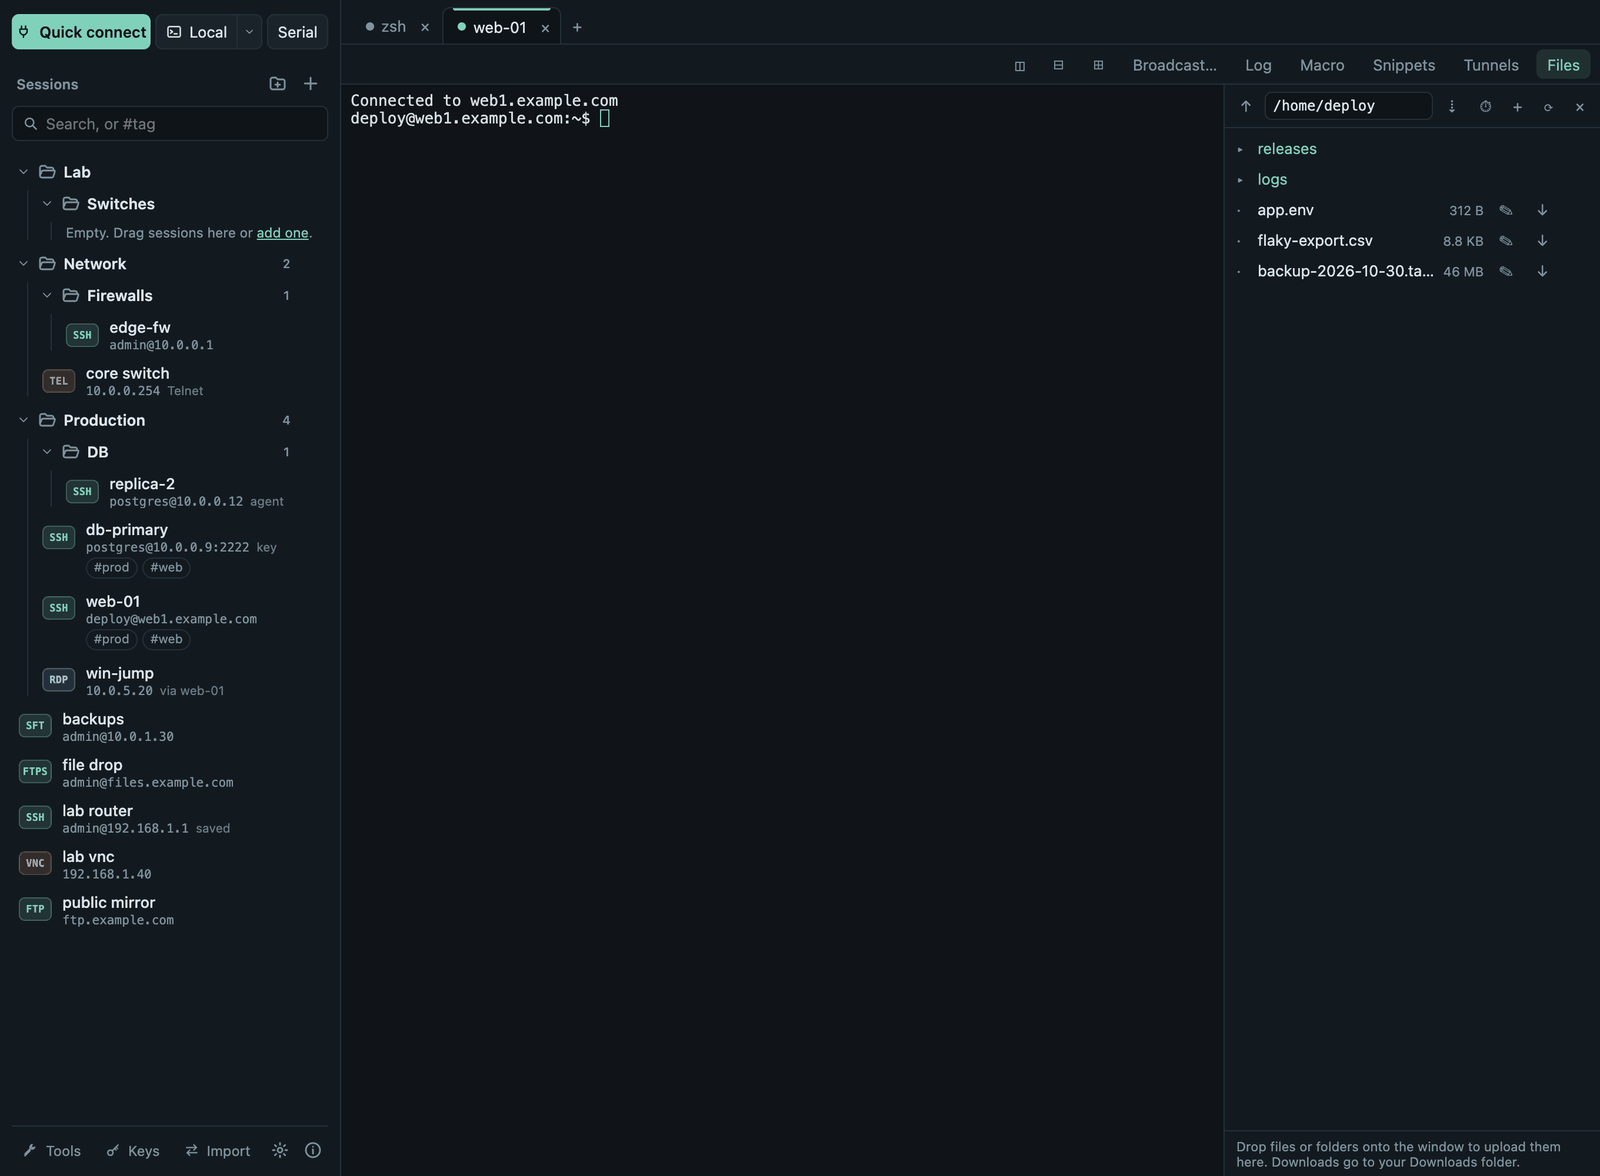
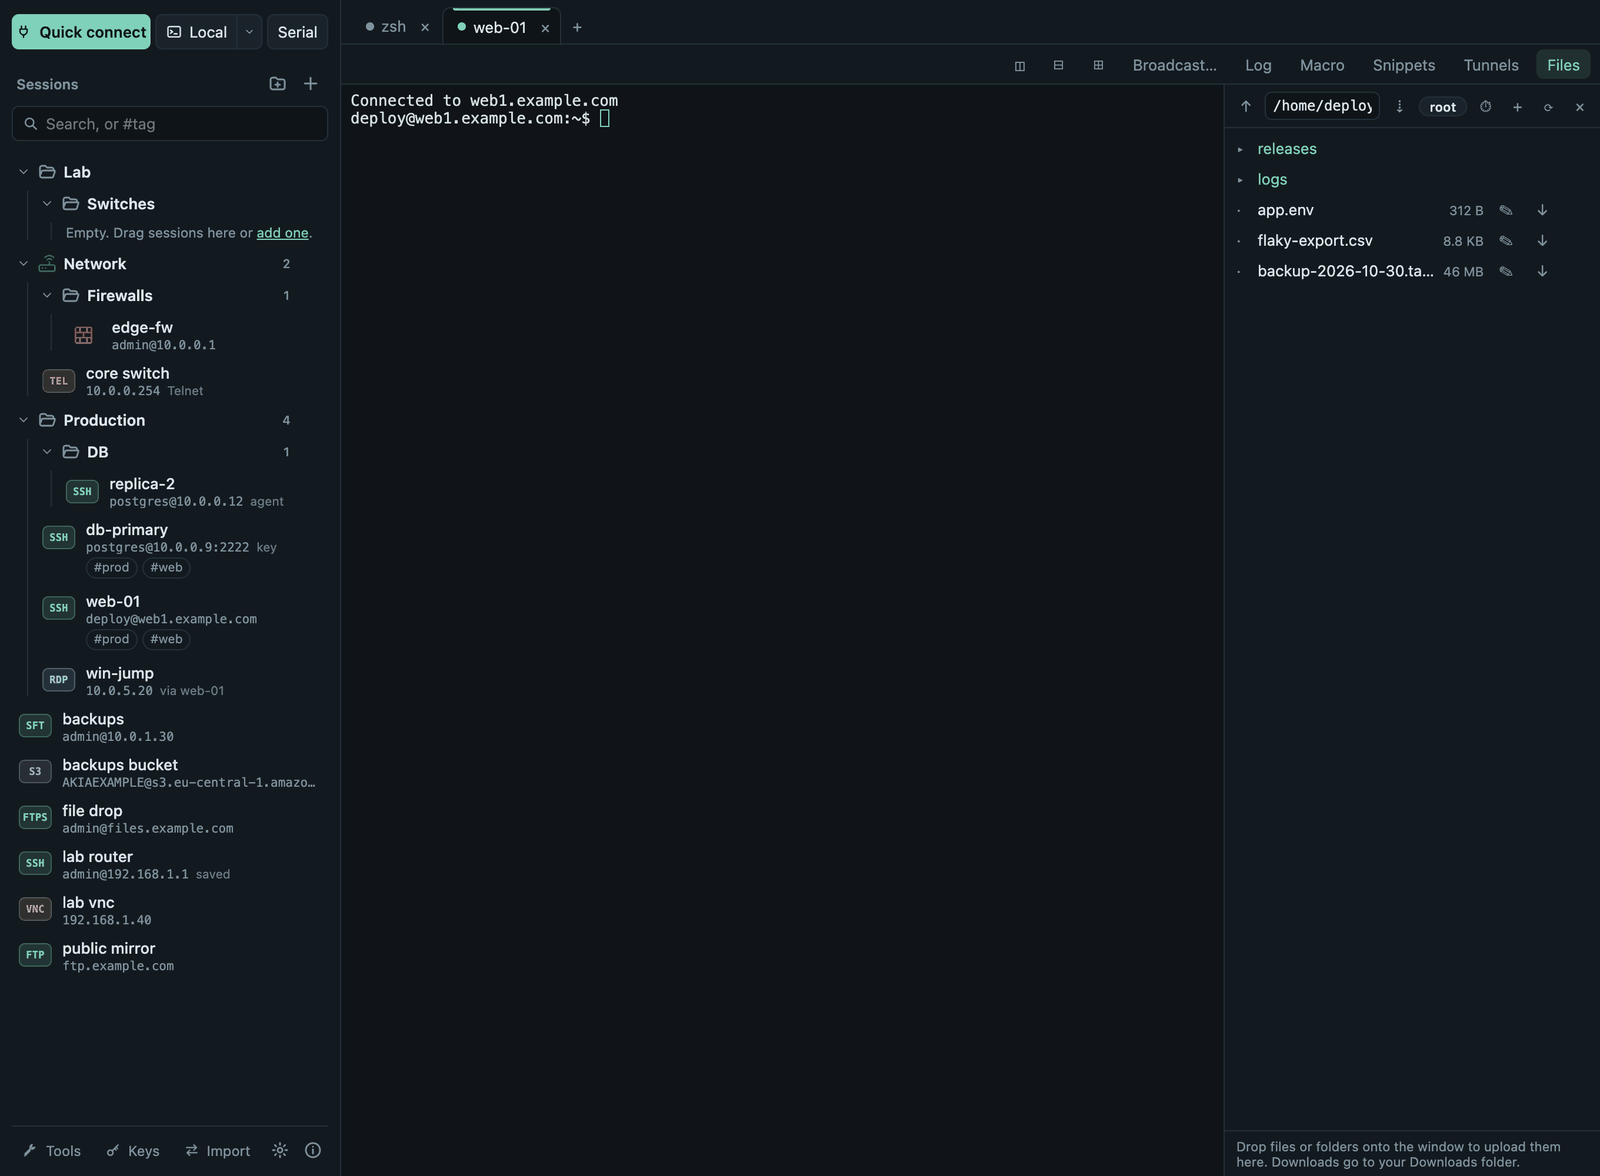
Docs: README, home page and guide cover the 0.5.9 and 0.5.10 features
Folder broadcast, connect by typing, icons, shared session files,
browsing as root, S3, LAN scan, bandwidth test, file servers and the
Windows X server start are now in the README, the landing page, the
guide index and the MobaXterm mapping. Screenshots regenerated; the
screenshot script dismisses the mock's update notice.

Changed region(s): [[0.0, 0.6429, 0.1875, 0.8265], [0.0312, 0.2755, 0.125, 0.3061]]

diff --git a/website/overrides/home.html b/website/overrides/home.html
@@ -5,21 +5,21 @@
 <meta name="viewport" content="width=device-width, initial-scale=1.0">
 <meta name="color-scheme" content="dark">
 <title>Termalith — free, open-source SSH, SFTP, RDP and VNC client for macOS, Windows and Linux</title>
-<meta name="description" content="Termalith is a free, open-source remote administration app for macOS, Windows and Linux: SSH and Mosh terminals, SFTP/FTP/FTPS, RDP and VNC, tunnels, serial and Telnet consoles and network tools in one window. No account, no telemetry.">
+<meta name="description" content="Termalith is a free, open-source remote administration app for macOS, Windows and Linux: SSH and Mosh terminals, SFTP/FTP/FTPS and S3, RDP and VNC, tunnels, serial and Telnet consoles and network tools in one window. No account, no telemetry.">
 <meta property="og:type" content="website">
 <meta property="og:site_name" content="Termalith">
 <meta property="og:title" content="Termalith — one workspace, every connection">
-<meta property="og:description" content="Termalith is a free, open-source remote administration app for macOS, Windows and Linux: SSH and Mosh terminals, SFTP/FTP/FTPS, RDP and VNC, tunnels, serial and Telnet consoles and network tools in one window. No account, no telemetry.">
+<meta property="og:description" content="Termalith is a free, open-source remote administration app for macOS, Windows and Linux: SSH and Mosh terminals, SFTP/FTP/FTPS and S3, RDP and VNC, tunnels, serial and Telnet consoles and network tools in one window. No account, no telemetry.">
 <meta property="og:url" content="https://mehaskari.github.io/Termalith/">
 <meta property="og:image" content="https://mehaskari.github.io/Termalith/assets/og.png">
 <meta property="og:image:width" content="1200">
 <meta property="og:image:height" content="630">
 <meta name="twitter:card" content="summary_large_image">
 <meta name="twitter:title" content="Termalith — one workspace, every connection">
-<meta name="twitter:description" content="Termalith is a free, open-source remote administration app for macOS, Windows and Linux: SSH and Mosh terminals, SFTP/FTP/FTPS, RDP and VNC, tunnels, serial and Telnet consoles and network tools in one window. No account, no telemetry.">
+<meta name="twitter:description" content="Termalith is a free, open-source remote administration app for macOS, Windows and Linux: SSH and Mosh terminals, SFTP/FTP/FTPS and S3, RDP and VNC, tunnels, serial and Telnet consoles and network tools in one window. No account, no telemetry.">
 <meta name="twitter:image" content="https://mehaskari.github.io/Termalith/assets/og.png">
 <script type="application/ld+json">
-{"@context":"https://schema.org","@type":"SoftwareApplication","name":"Termalith","applicationCategory":"DeveloperApplication","applicationSubCategory":"Remote administration","operatingSystem":"macOS 11+, Windows 10/11, Linux","softwareVersion":"0.5.10","license":"https://opensource.org/licenses/MIT","isAccessibleForFree":true,"offers":{"@type":"Offer","price":"0","priceCurrency":"USD"},"url":"https://mehaskari.github.io/Termalith/","downloadUrl":"https://github.com/mehaskari/Termalith/releases/latest","codeRepository":"https://github.com/mehaskari/Termalith","description":"Termalith is a free, open-source remote administration app for macOS, Windows and Linux: SSH and Mosh terminals, SFTP/FTP/FTPS, RDP and VNC, tunnels, serial and Telnet consoles and network tools in one window. No account, no telemetry."}
+{"@context":"https://schema.org","@type":"SoftwareApplication","name":"Termalith","applicationCategory":"DeveloperApplication","applicationSubCategory":"Remote administration","operatingSystem":"macOS 11+, Windows 10/11, Linux","softwareVersion":"0.5.10","license":"https://opensource.org/licenses/MIT","isAccessibleForFree":true,"offers":{"@type":"Offer","price":"0","priceCurrency":"USD"},"url":"https://mehaskari.github.io/Termalith/","downloadUrl":"https://github.com/mehaskari/Termalith/releases/latest","codeRepository":"https://github.com/mehaskari/Termalith","description":"Termalith is a free, open-source remote administration app for macOS, Windows and Linux: SSH and Mosh terminals, SFTP/FTP/FTPS and S3, RDP and VNC, tunnels, serial and Telnet consoles and network tools in one window. No account, no telemetry."}
 </script>
 <script type="application/ld+json">
 {"@context":"https://schema.org","@type":"FAQPage","mainEntity":[
@@ -563,10 +563,11 @@
           <h3>Work in many places at once</h3>
           <ul>
             <li>Local shells, tabs, up to 2×2 split panes</li>
-            <li>Broadcast typing with a loud banner</li>
+            <li>Type into a whole folder of servers at once, side by side</li>
             <li>Snippets with <code>&#123;&#123;variables&#125;&#125;</code>, macros</li>
             <li>Session logs, keyword colors, per-session look</li>
-            <li>Command palette <code>⌘K</code></li>
+            <li>Command palette <code>⌘K</code>: type <code>ssh me@host</code> to connect</li>
+            <li>Icons for sessions and folders, shared team session files</li>
           </ul>
         </div>
         <div class="group">
@@ -577,7 +578,7 @@
             <li>Strict host keys, keychain secrets</li>
             <li>Jump hosts, SOCKS/HTTP proxy</li>
             <li>Tunnels <code>-L</code> <code>-R</code> <code>-D</code>, Mosh</li>
-            <li>X11 &amp; agent forwarding, server monitor</li>
+            <li>X11 (starts VcXsrv on Windows) &amp; agent forwarding, server monitor</li>
           </ul>
         </div>
         <div class="group">
@@ -585,7 +586,8 @@
           <h3>Move and edit files</h3>
           <ul>
             <li>SFTP panel or file-browser tab</li>
-            <li>FTP and FTPS (pinned certificate)</li>
+            <li>FTP, FTPS (pinned certificate) and S3 buckets</li>
+            <li>Browse as root through sudo</li>
             <li>Drag and drop, queue with retry</li>
             <li>Files follow the terminal's folder</li>
             <li>Edit remote files with conflict check</li>
@@ -598,8 +600,9 @@
           <ul>
             <li>RDP and VNC in a tab, or your own client</li>
             <li>Serial consoles and Telnet</li>
-            <li>Ping, traceroute, port scan, DNS</li>
-            <li>Subnet calculator, Wake-on-LAN</li>
+            <li>Ping, traceroute, port scan, LAN scan, DNS</li>
+            <li>Bandwidth test (iperf3), subnet calculator, Wake-on-LAN</li>
+            <li>Built-in TFTP, HTTP and FTP file servers</li>
             <li>Import from <code>~/.ssh/config</code> &amp; MobaXterm</li>
           </ul>
         </div>
@@ -735,7 +738,7 @@ corepack pnpm dev</div>
       <div class="why">
         <div class="why-card"><h3>Is it really free?</h3><p>Yes: MIT licensed, free for personal and commercial use, no paid tier.</p></div>
         <div class="why-card"><h3>Which systems?</h3><p>macOS 11+ (Apple Silicon, Intel), Windows 10/11 (x64, ARM64), Linux (x64, ARM64; AppImage and deb).</p></div>
-        <div class="why-card"><h3>Is it a MobaXterm alternative?</h3><p>For daily SSH, files, RDP/VNC and tunnels, yes, on all three systems; it imports MobaXterm sessions. A built-in X server on Windows is not there yet.</p></div>
+        <div class="why-card"><h3>Is it a MobaXterm alternative?</h3><p>For daily SSH, files, RDP/VNC, tunnels, broadcast typing and file servers, yes, on all three systems; it imports MobaXterm sessions. On Windows it starts an installed VcXsrv or Xming for X11; it does not ship its own X server or Unix tools yet.</p></div>
         <div class="why-card"><h3>Where do passwords go?</h3><p>Into the system keychain, only after a login worked, optionally sealed with a master password. Never into exports or logs.</p></div>
         <div class="why-card"><h3>Why the security warning?</h3><p>The installers are not code-signed with a paid certificate yet. Check the download against <code>SHA256SUMS.txt</code>, or build from source.</p></div>
         <div class="why-card"><h3>How can I help?</h3><p>Star the project, report problems and ideas in <a href="https://github.com/mehaskari/Termalith/issues" target="_blank" rel="noopener">Issues</a>, or send a pull request.</p></div>

diff --git a/README.md b/README.md
@@ -72,21 +72,24 @@ Step by step with screenshots:
 
 **Terminals** — local shells (zsh, bash, fish, PowerShell, cmd, Git Bash,
 WSL) in tabs and up to 2×2 split panes; broadcast typing to several
-terminals; snippets with `{{variables}}`; macros; session logs; find;
-keyword colors; color schemes and per-session fonts and colors; command
-palette.
+terminals, or to a whole folder of sessions opened side by side; snippets
+with `{{variables}}`; macros; session logs; find; keyword colors; color
+schemes and per-session fonts and colors; command palette (type
+`ssh me@host` to connect without saving).
 [Guide](https://mehaskari.github.io/Termalith/guide/terminals/)
 
 **SSH** — password, private key, ssh-agent and one-time codes; strict host
 keys; jump hosts; SOCKS5/HTTP proxy; tunnels (`-L`, `-R`, `-D`); X11 and
-agent forwarding (opt-in); automatic reconnect; Mosh; SSH key manager;
+agent forwarding (opt-in; on Windows an installed VcXsrv or Xming is started
+for you); automatic reconnect; Mosh; SSH key manager;
 optional server monitor (CPU, memory, disk, network).
 [Guide](https://mehaskari.github.io/Termalith/guide/ssh/)
 
 **Files** — SFTP panel next to the terminal or as its own tab; FTP and FTPS
 (certificate pinned); S3 and S3-compatible object storage (MinIO, R2, B2); drag-and-drop upload of files and folders; transfer
 queue with retry; edit remote files with conflict detection; side-by-side
-compare; the panel can follow the terminal's folder.
+compare; the panel can follow the terminal's folder; browse as root
+through `sudo`.
 [Guide](https://mehaskari.github.io/Termalith/guide/files/)
 
 **Remote desktop** — RDP and VNC inside a tab (resizes with it, sharp on
@@ -95,9 +98,10 @@ through an SSH tunnel; RDP certificates checked like SSH host keys.
 [Guide](https://mehaskari.github.io/Termalith/guide/remote-desktop/)
 
 **And** — serial consoles, Telnet (through a jump host if you like), ping,
-traceroute, port check and scan, DNS lookup, subnet calculator,
-Wake-on-LAN, built-in TFTP, HTTP and FTP file servers; folders, favorites, tags and search; import from MobaXterm and
-`~/.ssh/config`; master password; portable mode on a USB stick; keyboard
+traceroute, port check and scan, LAN scan, bandwidth test (iperf3), DNS
+lookup, subnet calculator, Wake-on-LAN, built-in TFTP, HTTP and FTP file
+servers; folders, favorites, tags, search and session icons; session files
+shared with a team; import from MobaXterm and `~/.ssh/config`; master password; portable mode on a USB stick; keyboard
 navigation and screen-reader labels.
 [All topics](https://mehaskari.github.io/Termalith/guide/)
 
@@ -112,8 +116,9 @@ navigation and screen-reader labels.
 </tr>
 </table>
 
-**Not yet:** code-signed installers, automatic updates, sound and file
-clipboard in embedded RDP, a built-in X server on Windows. Coming from
+**Not yet:** code-signed installers, installing updates by itself (it tells
+you when one is out), sound and file clipboard in embedded RDP, a bundled X
+server on Windows. Coming from
 MobaXterm? See [what maps where](https://mehaskari.github.io/Termalith/guide/mobaxterm/).
 
 ## Privacy and security

diff --git a/website/docs/guide/mobaxterm.md b/website/docs/guide/mobaxterm.md
@@ -28,6 +28,10 @@ MobaXterm or Mobatek.
 | SSH session with the SFTP browser | SSH tab → **Files** ([Files](files.md)) |
 | "Follow terminal folder" | **⇣** in the Files panel |
 | SFTP / FTP session | SSH session with *Files only*, or an FTPS/FTP session |
+| S3 session | S3 session (AWS and S3-compatible storage) ([Files](files.md#s3-object-storage)) |
+| SFTP "sudo" browsing | *Browse as root* ([Files](files.md#browse-as-root-sudo)) |
+| Quick connect | **Quick connect**, or type `ssh me@host` in the command palette ([Sessions](sessions.md#create-edit-connect)) |
+| Shared sessions | Shared session files on a network folder ([Sessions](sessions.md#shared-session-files-team)) |
 | RDP, VNC sessions | RDP/VNC sessions, inside a tab or in your client ([Remote desktop](remote-desktop.md)) |
 | MobaSSHTunnel | **Tunnels** on an SSH tab ([Tunnels](ssh.md#tunnels)) |
 | Session icons | **Icon** in the session dialog; folder → *Icon…* ([Sessions](sessions.md#icons)) |
@@ -36,7 +40,9 @@ MobaXterm or Mobatek.
 | Split terminals | Split side by side, top and bottom, or four panes |
 | Remote monitoring bar | *Server monitor* setting ([SSH](ssh.md#server-monitor)) |
 | Serial, Telnet, Mosh | Serial button, Telnet sessions, *Connect with Mosh* |
-| Network tools (ping, port scan, WoL…) | **Tools** ([Network tools](serial-telnet-tools.md#network-tools)) |
+| Network tools (ping, port scan, WoL…) | **Tools** ([Network tools](serial-telnet-tools.md#network-tools)), with LAN scan and an iperf3 bandwidth test |
+| TFTP, HTTP, FTP servers | **Tools → File servers** ([File servers](serial-telnet-tools.md#file-servers-tftp-http-ftp)) |
+| Built-in X server | *Forward X11*; on Windows Termalith starts an installed VcXsrv or Xming ([SSH](ssh.md#per-session-options)) |
 | Master password | **Settings → Master password** |
 | Portable edition | `TermalithData` folder next to the app ([Portable copy](passwords-and-data.md#portable-copy)) |
 
@@ -51,11 +57,12 @@ MobaXterm or Mobatek.
 
 ## Not available (yet)
 
-- A built-in X server on Windows: use VcXsrv or Xming with *Forward X11*.
+- A bundled X server on Windows: install VcXsrv or Xming once and
+  Termalith starts it when a session forwards X11.
 - Built-in Unix tools on Windows (use WSL or Git Bash as the local shell).
 - A built-in NFS server (TFTP, HTTP and FTP are in
   [Tools → File servers](serial-telnet-tools.md#file-servers-tftp-http-ftp)),
-  and S3, RSH or XDMCP sessions.
+  and RSH or XDMCP sessions.
 - Sound and drive sharing in embedded RDP.
 
 These are on the [roadmap](https://github.com/mehaskari/Termalith/issues);

diff --git a/website/docs/guide/index.md b/website/docs/guide/index.md
@@ -21,12 +21,12 @@ source (MIT) and works the same on macOS, Windows and Linux.
 
 | Topic | What you will find |
 |---|---|
-| [Sessions](sessions.md) | Saving connections, folders, favorites, tags, search, import from MobaXterm and `~/.ssh/config`, export |
+| [Sessions](sessions.md) | Saving connections, folders, favorites, tags, search, icons, shared session files, import from MobaXterm and `~/.ssh/config`, export |
 | [SSH](ssh.md) | Passwords, keys, agent, one-time codes, host keys, jump hosts, proxies, tunnels, X11 and agent forwarding, Mosh, key manager, server monitor |
-| [Terminals](terminals.md) | Tabs, split panes, broadcast typing, snippets, macros, logs, find, colors and fonts |
-| [Files](files.md) | SFTP panel and file browser, FTP and FTPS, uploads and downloads, editing remote files, compare |
+| [Terminals](terminals.md) | Tabs, split panes, broadcast typing (also to a whole folder), command palette, snippets, macros, logs, find, colors and fonts |
+| [Files](files.md) | SFTP panel and file browser, FTP, FTPS and S3, browsing as root, uploads and downloads, editing remote files, compare |
 | [Remote desktop](remote-desktop.md) | RDP and VNC inside Termalith or in your own client, certificates, tunnels |
-| [Serial, Telnet and network tools](serial-telnet-tools.md) | Consoles for devices, ping, traceroute, port scan, DNS, subnet calculator, Wake-on-LAN |
+| [Serial, Telnet and network tools](serial-telnet-tools.md) | Consoles for devices, ping, traceroute, port scan, LAN scan, bandwidth test, DNS, subnet calculator, Wake-on-LAN, built-in file servers |
 | [Passwords and your data](passwords-and-data.md) | Keychain, master password, portable copy, where data is stored, what is never sent |
 | [Settings](settings.md) | Every setting and what it does |
 | [Keyboard shortcuts](shortcuts.md) | Shortcuts for macOS, Windows and Linux, keyboard-only use |
